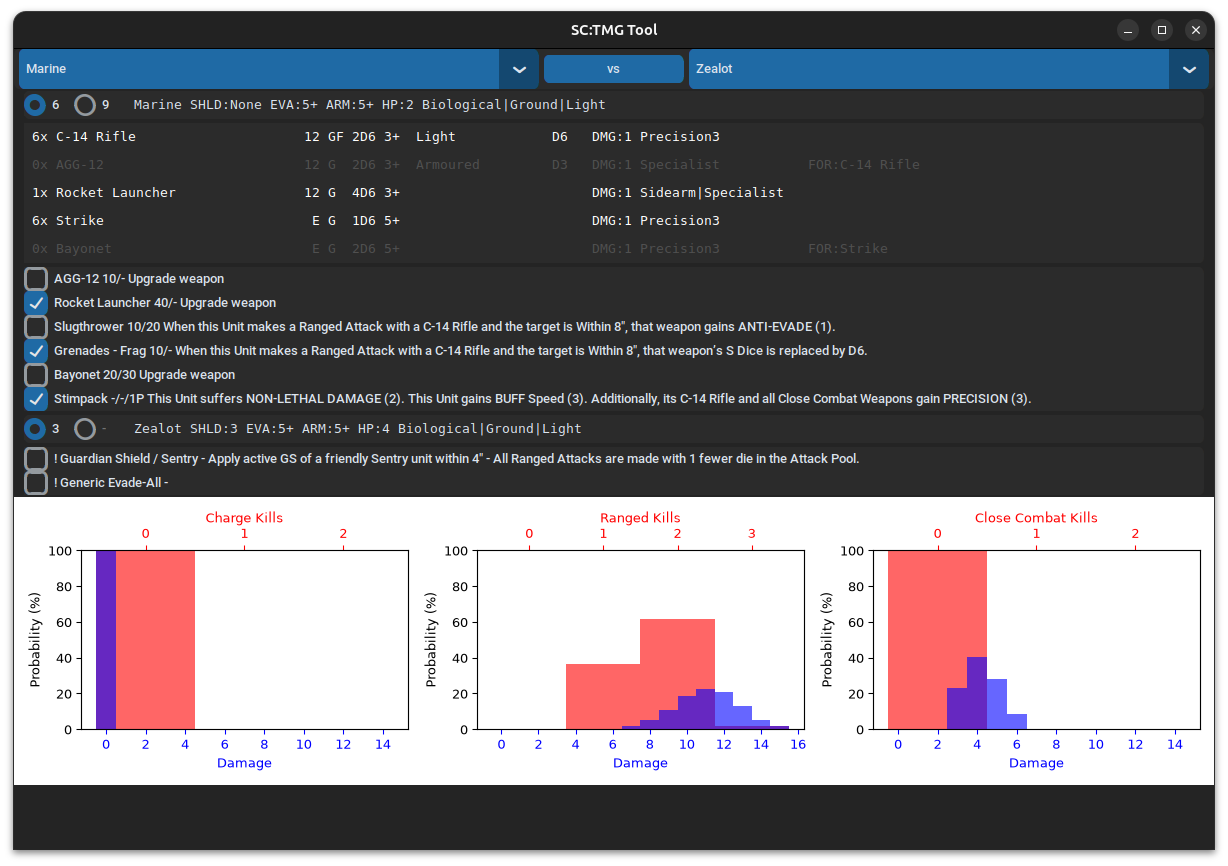
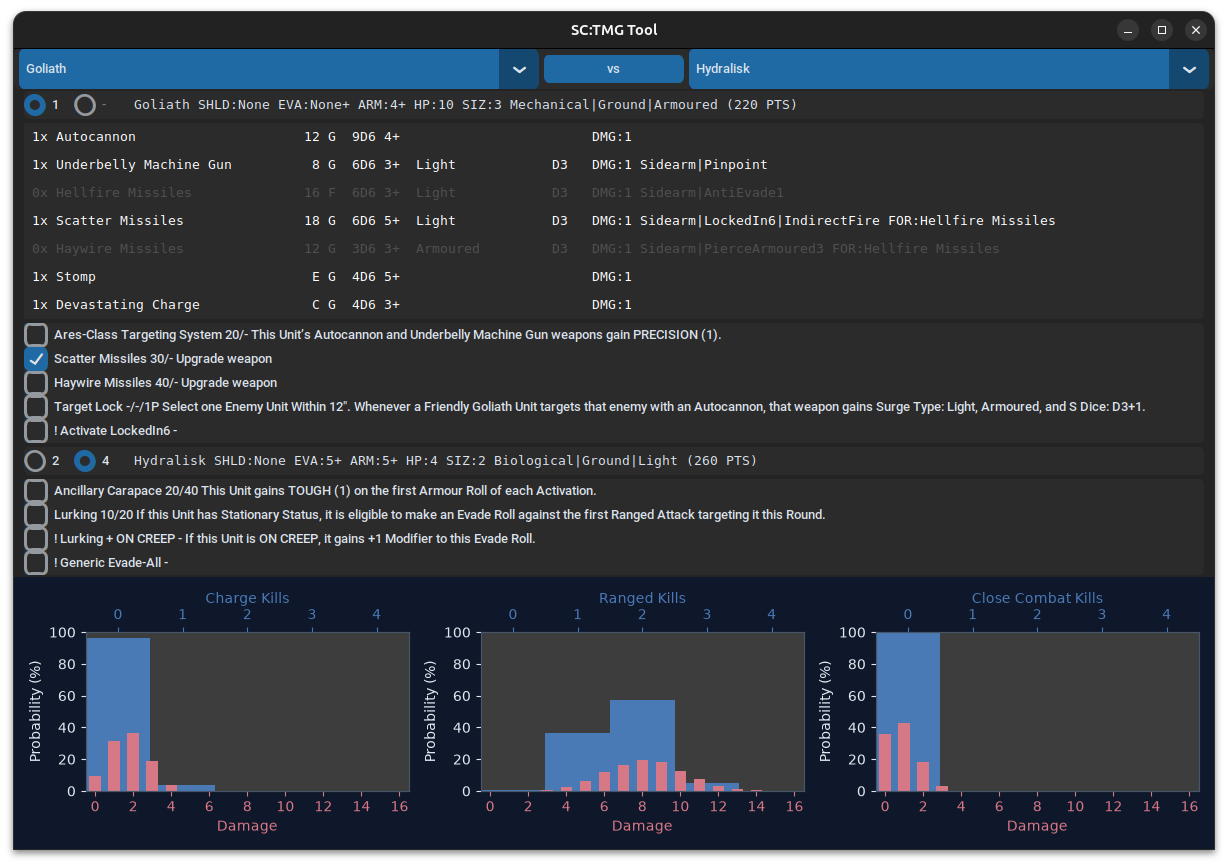
Draw plots in a dark color scheme

diff --git a/src/sctmgtool/histogram.py b/src/sctmgtool/histogram.py
@@ -10,6 +10,13 @@ from matplotlib.figure import Figure
 
 from sctmgtool.tools import ClashType, HookContext, MusteredUnit, roll_damage, select_weapons
 
+BACKGROUND_COLOR = "#0f172a"
+PLOT_BACKGROUND_COLOR = "#3D3D3D"
+TEXT_COLOR = "#e2e8f0"
+BORDER_COLOR = "#475569"
+DAMAGE_COLOR = "#d67886"
+KILLS_COLOR = "#497AB6"
+
 
 class Histogram(NamedTuple):
     damage: np.ndarray
@@ -22,12 +29,17 @@ def draw_histogram_subfigure(
     kills_axis: Axes,
     clash_type: ClashType,
 ) -> None:
+    damage_axis.figure.patch.set_facecolor(BACKGROUND_COLOR)
+
     damage_axis.clear()
-    damage_axis.bar(np.arange(len(histogram.damage)), histogram.damage, width=1.0, alpha=0.6, color="blue", label="Damage")
+    damage_axis.patch.set_visible(False)
+    damage_axis.bar(np.arange(len(histogram.damage)), histogram.damage, width=0.6, align="center", color=DAMAGE_COLOR, label="Damage")
     damage_axis.set_xticks(np.arange(len(histogram.damage)))
-    damage_axis.xaxis.set_tick_params(colors="blue")
-    damage_axis.set_xlabel("Damage", color="blue")
-    damage_axis.set_ylabel("Probability (%)")
+    damage_axis.set_xlim(-0.5, len(histogram.damage) - 0.5)
+    damage_axis.xaxis.set_tick_params(colors=DAMAGE_COLOR)
+    damage_axis.yaxis.set_tick_params(colors=TEXT_COLOR)
+    damage_axis.set_xlabel("Damage", color=DAMAGE_COLOR)
+    damage_axis.set_ylabel("Probability (%)", color=TEXT_COLOR)
     damage_axis.set_ylim(0, 100)
 
     if len(histogram.damage) == 1:
@@ -36,10 +48,17 @@ def draw_histogram_subfigure(
         damage_axis.xaxis.set_major_locator(ticker.MaxNLocator(integer=True, steps=[1, 2, 5, 10]))
 
     kills_axis.clear()
-    kills_axis.bar(np.arange(len(histogram.kills)), histogram.kills, width=1.0, alpha=0.6, color="red", label="Kills")
-    kills_axis.xaxis.set_tick_params(colors="red")
+    kills_axis.set_facecolor(PLOT_BACKGROUND_COLOR)
+    kills_axis.patch.set_visible(True)
+    kills_axis.bar(np.arange(len(histogram.kills)), histogram.kills, width=1.0, color=KILLS_COLOR, label="Kills")
+    kills_axis.set_xlim(-0.5, len(histogram.kills) - 0.5)
+    kills_axis.xaxis.set_tick_params(colors=KILLS_COLOR)
     kills_axis.xaxis.set_label_position("top")
-    kills_axis.set_xlabel(f"{clash_type.value} Kills", color="red")
+    kills_axis.set_xlabel(f"{clash_type.value} Kills", color=KILLS_COLOR)
+
+    for axis in (damage_axis, kills_axis):
+        for spine in axis.spines.values():
+            spine.set_color(BORDER_COLOR)
 
     if len(histogram.kills) == 1:
         kills_axis.set_xticks([0])

diff --git a/src/sctmgtool/tk.py b/src/sctmgtool/tk.py
@@ -18,7 +18,7 @@ from platformdirs import user_data_dir
 
 import sctmgtool
 from sctmgtool.cache import Cache
-from sctmgtool.histogram import draw_histogram_subfigure, simulate_clash
+from sctmgtool.histogram import BACKGROUND_COLOR, PLOT_BACKGROUND_COLOR, draw_histogram_subfigure, simulate_clash
 from sctmgtool.tools import ClashType, MusteredUnit, Unit, Upgrade
 
 ROLL_COUNT = 10000
@@ -193,7 +193,9 @@ def tkinter_main(units: list[Unit]):
 
     def build_subfigure(parent: Figure, index: int):
         ax1 = parent.add_subplot(1, 3, index + 1)
+        ax1.set_facecolor(PLOT_BACKGROUND_COLOR)
         ax2 = ax1.twiny()
+        ax2.set_facecolor(PLOT_BACKGROUND_COLOR)
         return _Fig(ax1, ax2)
 
     def on_close():
@@ -330,14 +332,18 @@ def tkinter_main(units: list[Unit]):
     duf = ctk.CTkFrame(root)
     duf.pack(padx=10, pady=2, fill="x")
 
-    plots = ctk.CTkFrame(root)
-    figure = Figure(figsize=(15, 3))
-    canvas = FigureCanvasTkAgg(figure, master=plots)
-    canvas.get_tk_widget().pack(fill="x")
-    plots.pack(fill="x")
+    plots = ctk.CTkFrame(root, fg_color=BACKGROUND_COLOR)
+    figure = Figure(figsize=(15, 3), facecolor=BACKGROUND_COLOR)
 
     for i in range(len(ClashType)):
         subfigures.append(build_subfigure(figure, i))
+
+    canvas = FigureCanvasTkAgg(figure, master=plots)
+    canvas_widget = canvas.get_tk_widget()
+    canvas_widget.configure(background=BACKGROUND_COLOR, highlightthickness=0)
+    canvas.draw()
+    canvas_widget.pack(fill="x")
+    plots.pack(fill="x")
 
     select_units()
     root.protocol("WM_DELETE_WINDOW", on_close)

diff --git a/src/sctmgtool/web/app.py b/src/sctmgtool/web/app.py
@@ -166,7 +166,7 @@ def serialize_configured_unit(unit: MusteredUnit) -> dict:
 
 
 def render_results_webp(histograms) -> bytes:
-    figure = draw_histograms(histograms, {"figsize": (15, 3), "dpi": 72})
+    figure = draw_histograms(histograms, {"figsize": (11, 2.5), "dpi": 100})
 
     output = io.BytesIO()
     canvas = FigureCanvasAgg(figure)
